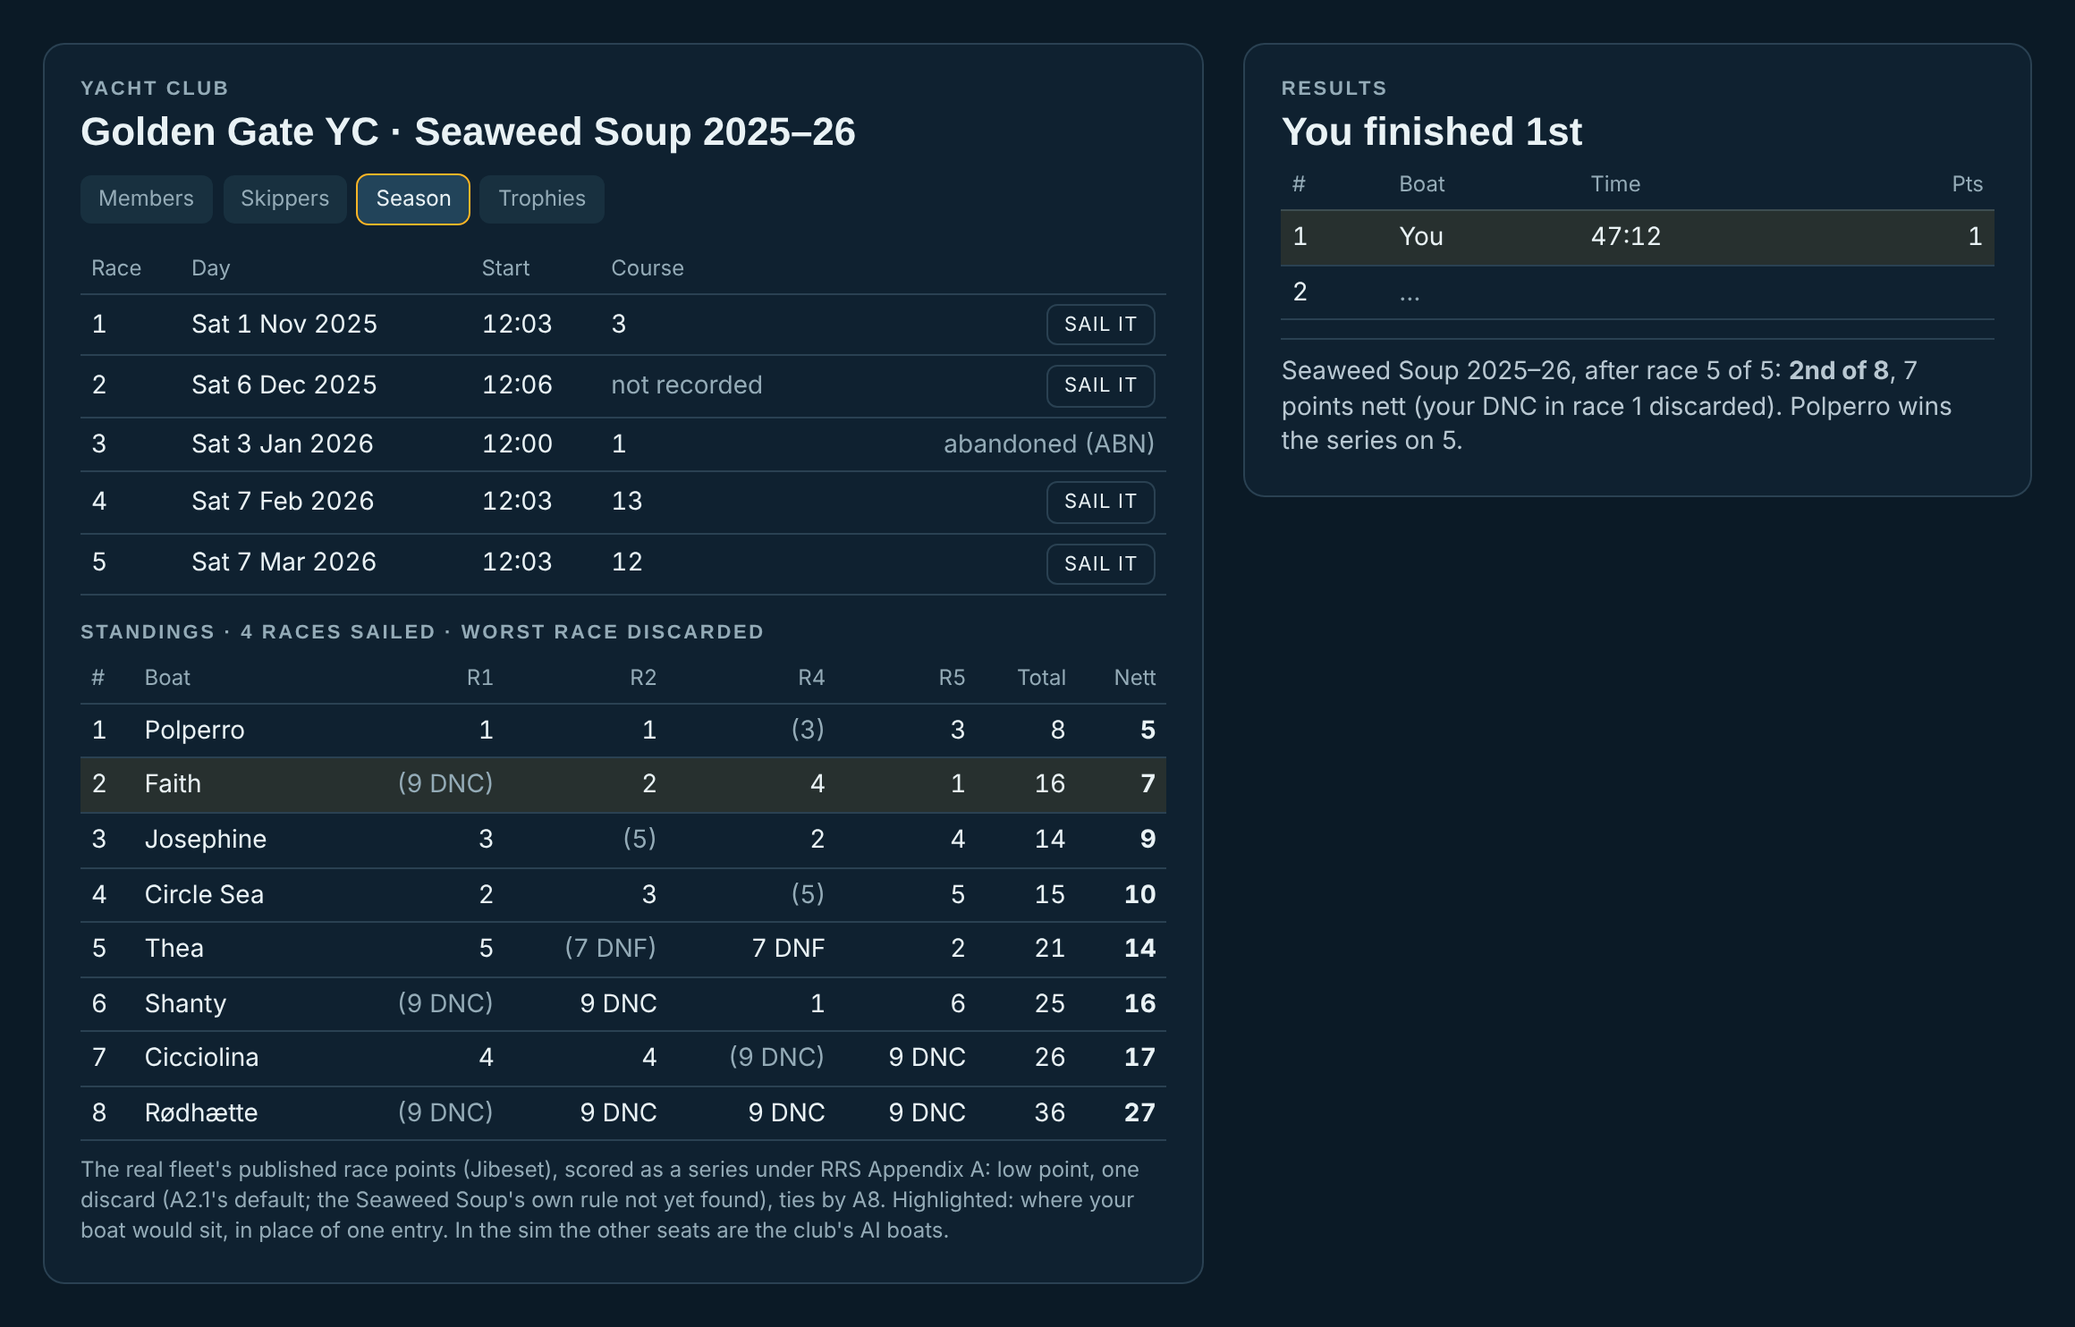
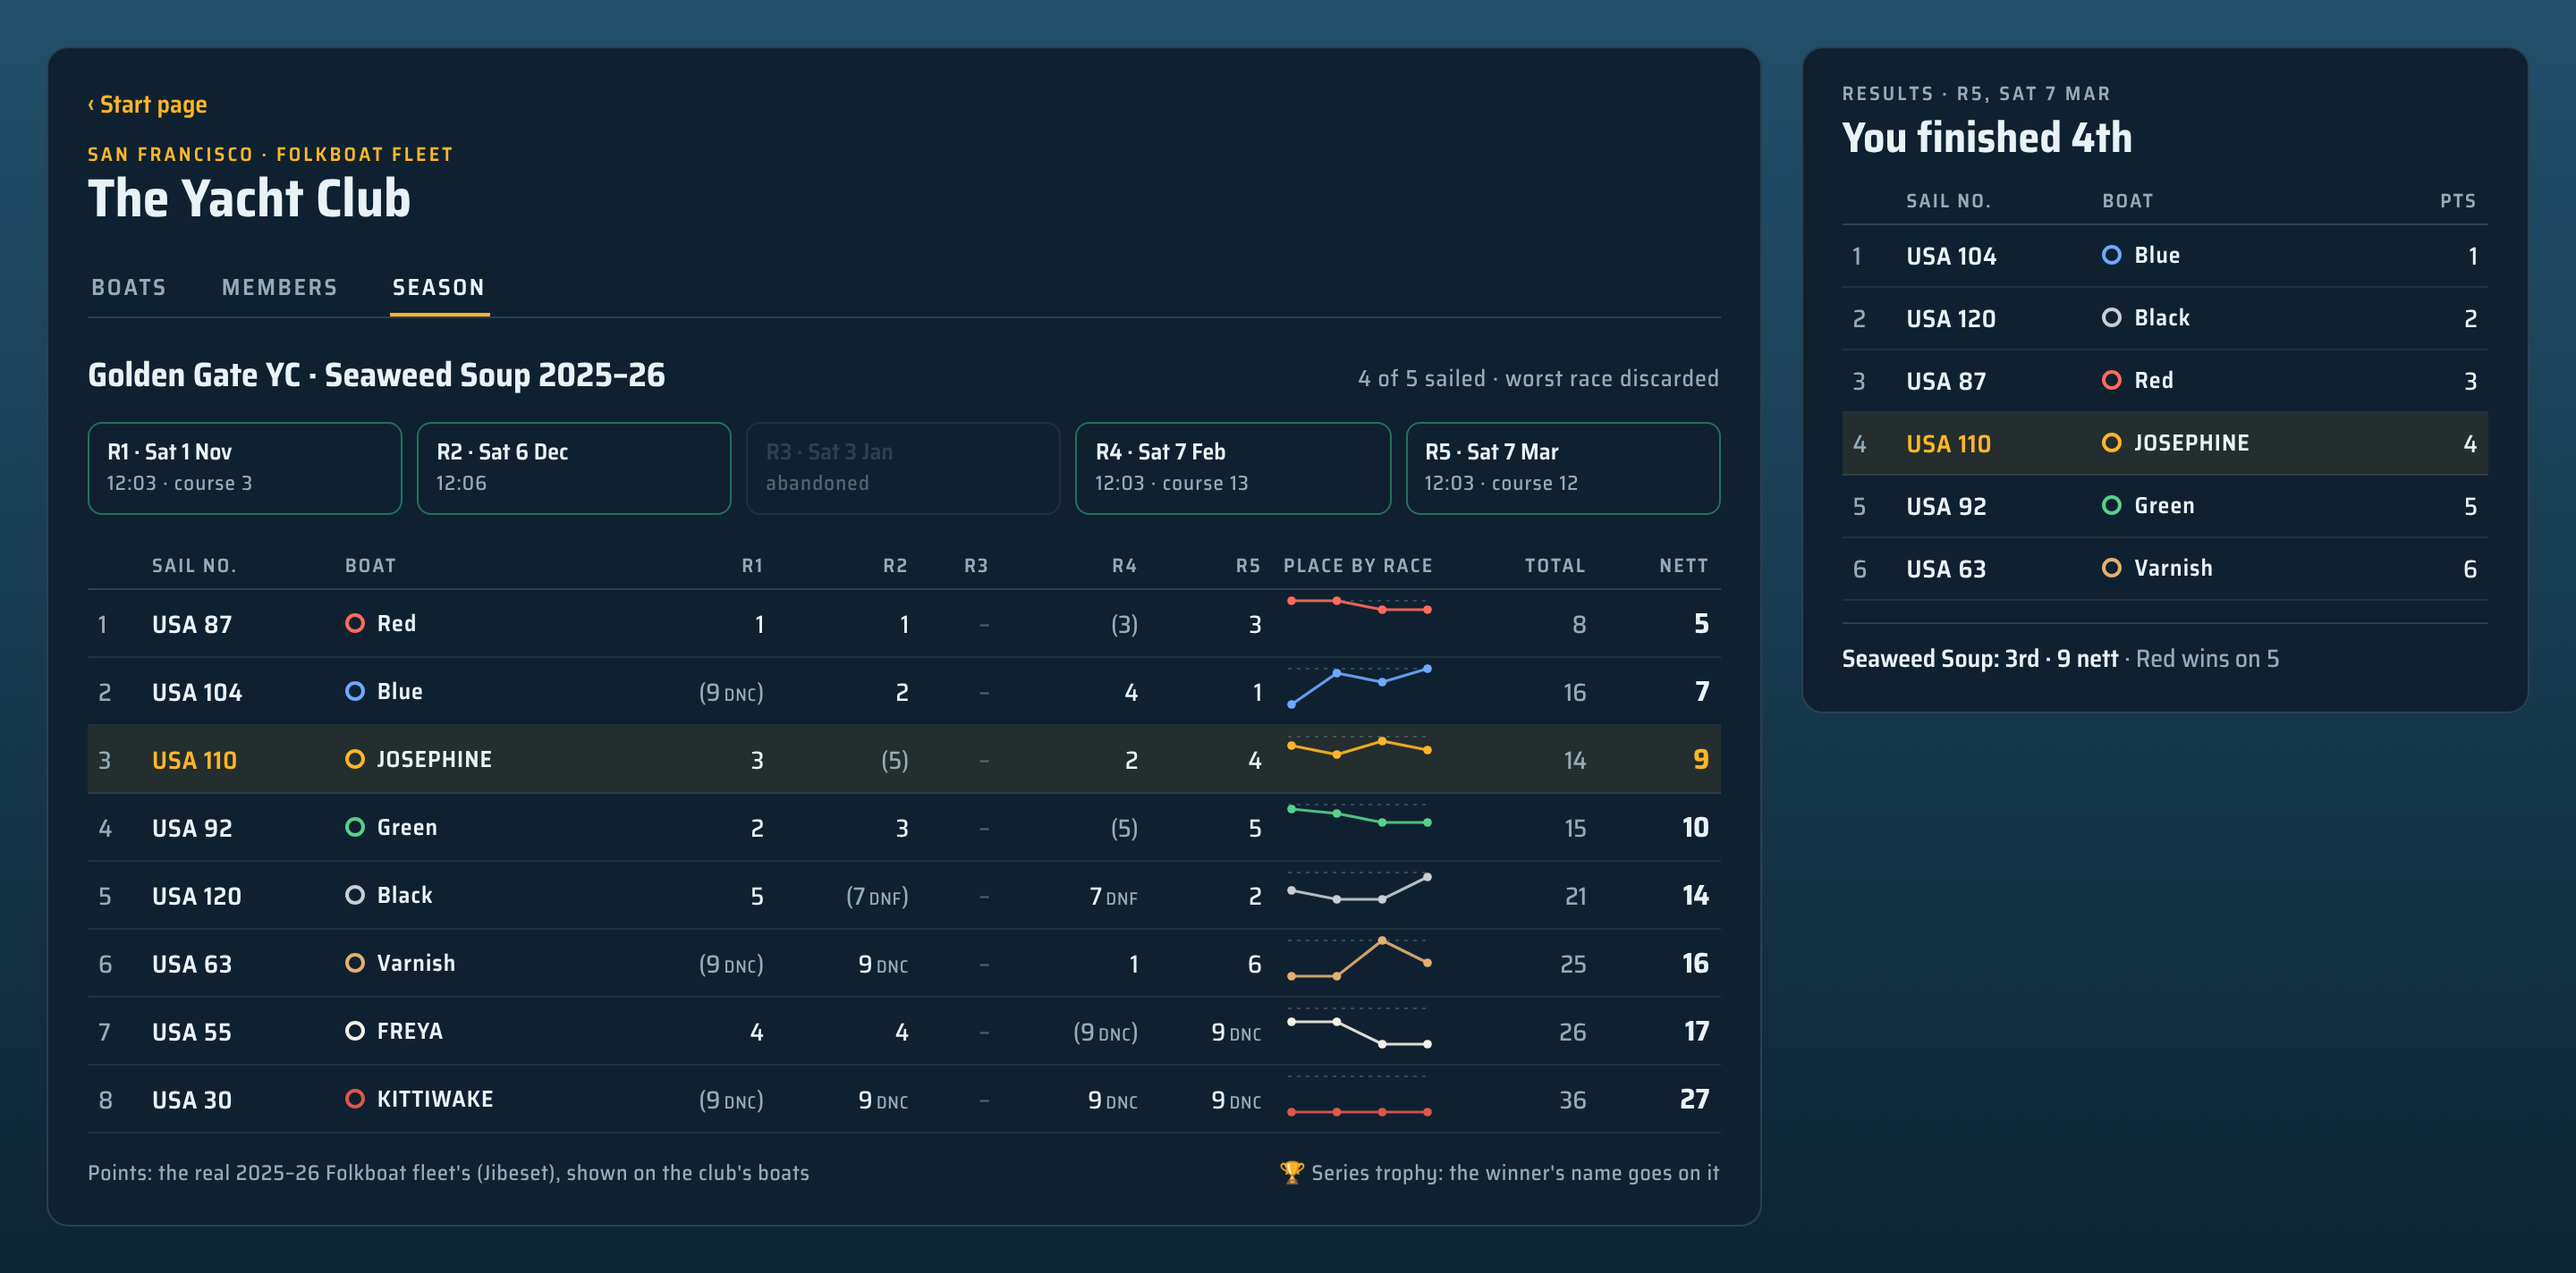
Season proposal: the mock-up redrawn with sail numbers, boat chips and place-by-race sparklines, in the Yacht Club's tabs
Claude-Session: https://claude.ai/code/session_012Uu5QhY7i2pxWmAtAggWhz

diff --git a/docs/SEASON-PROPOSAL.md b/docs/SEASON-PROPOSAL.md
@@ -6,8 +6,13 @@ series*, not just a race.
 
 ![Mock-up: the Yacht Club's Season page and the results line](season-mockup.png)
 
-*The mock-up uses real numbers: the 2025–26 Seaweed Soup Folkboat fleet's published race points (Jibeset, saved in
-src/boat/data/sf-folkboat-results.json), scored as a series. The highlighted row only shows where your boat would sit.*
+*The mock-up, redrawn after the owner's feedback (13 Nov). It's the Yacht Club's layout (Boats · Members · Season),
+and every boat list shows country and sail number beside the name, since sailors in a fleet go by sail numbers. Boat
+chips are in the boats' colours, and each row has a place-by-race sparkline, 1st at the top. The points are real: the
+2025–26 Seaweed Soup Folkboat fleet's published race points (Jibeset, saved in
+src/boat/data/sf-folkboat-results.json), scored as a series, and shown on the sim's fleet. Polperro's are on Red,
+Faith's on Blue, Josephine's on yours (JOSEPHINE, USA 110), Circle Sea's on Green, Thea's on Black, Shanty's on Varnish,
+Cicciolina's on FREYA and Rødhætte's on KITTIWAKE. FREYA and KITTIWAKE are the sim's first two generic club boats.*
 
 ## Which series
 
@@ -52,12 +57,13 @@ racing you.
 
 ## Where it lives (no new on-screen buttons)
 
-- **The Yacht Club page** (now a "Coming next" placeholder) gets a **Season** section:
-  - the calendar, each race with its "Sail it", the same as Run a past race's rows;
-  - the standings, with discards in brackets;
+- **The Yacht Club** gets a third tab, **Season**, beside Boats and Members. It replaces the "Club · Seasons: later"
+  note. Its sections:
+  - the calendar: five day tiles, each opening that race, the same as Run a past race's rows;
+  - the standings: # · sail number · boat · race scores (discards in brackets) · place by race · total · nett;
   - the trophy, with its past winners.
-- **The race results dialog:** one line under the table: "Seaweed Soup 2025–26, after race 4 of 5: 2nd of 8, 7 points
-  nett."
+- **The race results dialog:** its table gains the sail-number column, and one line goes under it: "Seaweed Soup: 3rd ·
+  9 nett · Red wins on 5"
 - **Run a past race:** the series' races are already there. Sailing one of them counts for the season. Saved, it goes in
   the logbook as now.
 
